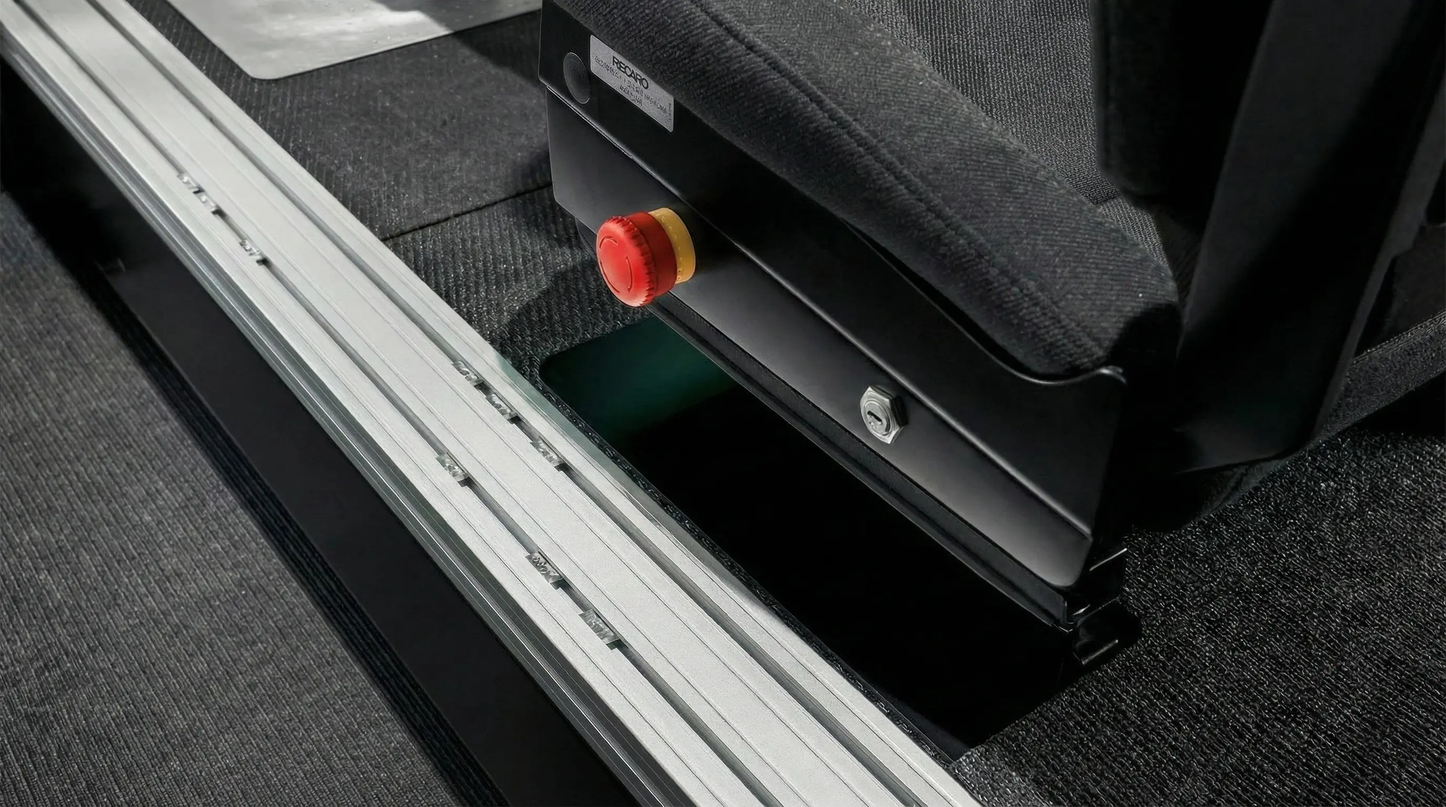
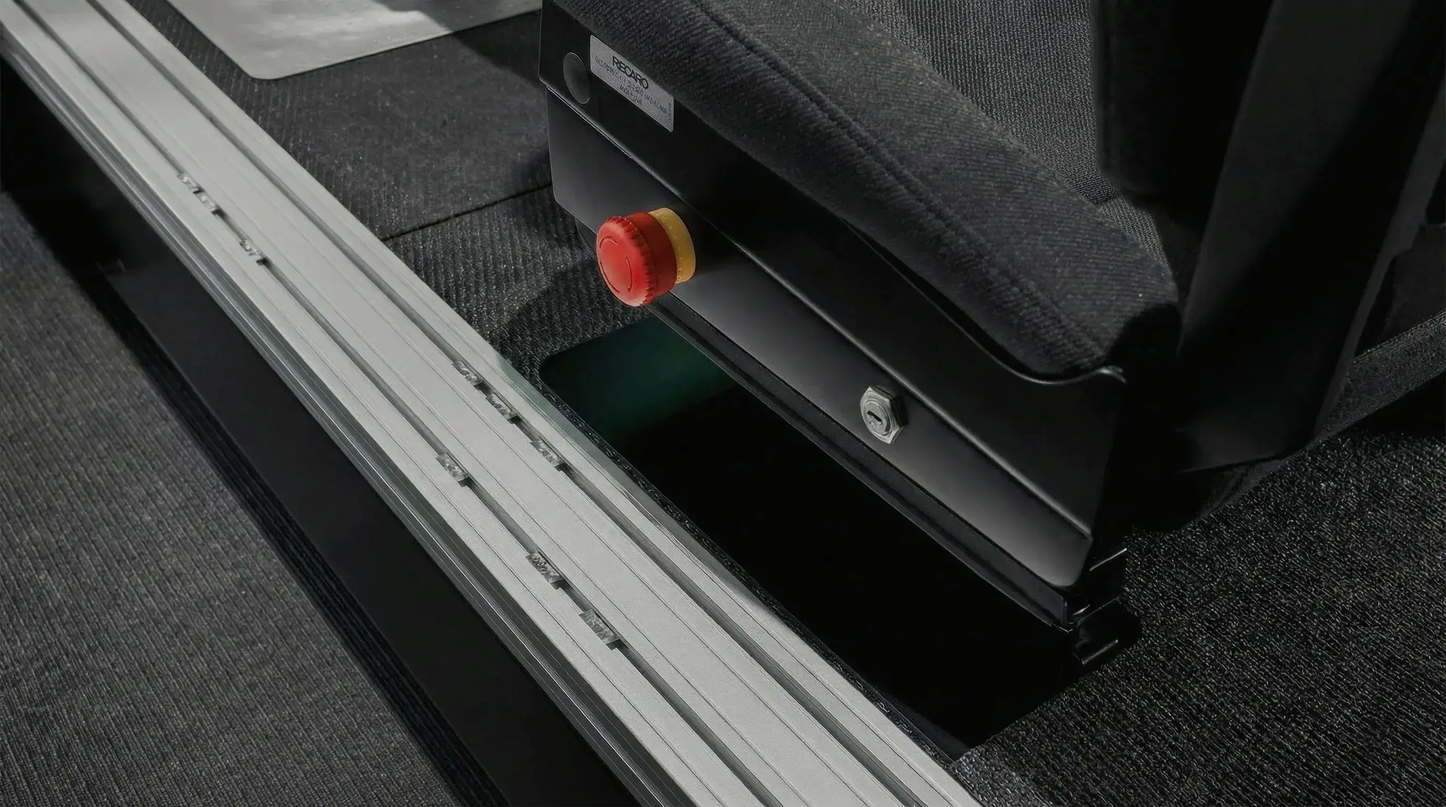
added shader reveal transition to the techfeatures

diff --git a/Final/src/scenes/TechFeatures/TechFeaturesCanvas.jsx b/Final/src/scenes/TechFeatures/TechFeaturesCanvas.jsx
@@ -1,0 +1,125 @@
+import { Canvas, useFrame, useThree } from '@react-three/fiber';
+import { useTexture, shaderMaterial } from '@react-three/drei';
+import * as THREE from 'three';
+import React, { useRef, useMemo, useState, useEffect } from 'react';
+import vertexShader from './shader/vertex.glsl?raw';
+import fragmentShader from './shader/fragment.glsl?raw';
+import features from './techFeatures.json';
+import gsap from 'gsap';
+
+const ImageTransitionMaterial = shaderMaterial(
+    {
+        uTexture: new THREE.Texture(),
+        uProgress: 0,
+        uSize: new THREE.Vector2(1, 1),
+        uResolution: new THREE.Vector2(1, 1),
+        uImageResolution: new THREE.Vector2(1, 1),
+    },
+    vertexShader,
+    fragmentShader
+);
+
+import { extend } from '@react-three/fiber';
+extend({ ImageTransitionMaterial });
+
+const TransitionPlane = ({ texture, isVisible, isActive, isBackground }) => {
+    const materialRef = useRef();
+    const meshRef = useRef();
+    const { viewport, size } = useThree();
+
+    useFrame(() => {
+        if (materialRef.current) {
+            materialRef.current.uSize = new THREE.Vector2(viewport.width, viewport.height);
+            materialRef.current.uResolution = new THREE.Vector2(viewport.width, viewport.height);
+        }
+    });
+
+    useEffect(() => {
+        if (materialRef.current && texture) {
+            materialRef.current.uTexture = texture;
+            if (texture.image) {
+                materialRef.current.uImageResolution = new THREE.Vector2(
+                    texture.image.width,
+                    texture.image.height
+                );
+            }
+        }
+    }, [texture]);
+
+    useEffect(() => {
+        if (materialRef.current) {
+            if (isBackground) {
+                materialRef.current.uProgress = 1.5;
+            } else if (isActive) {
+                materialRef.current.uProgress = 0;
+                gsap.to(materialRef.current, {
+                    uProgress: 1.5,
+                    duration: 1.5,
+                    ease: "power2.inOut",
+                });
+            }
+        }
+    }, [isActive, isBackground]);
+
+    return (
+        <mesh ref={meshRef} scale={[viewport.width, viewport.height, 1]}>
+            <planeGeometry args={[1, 1, 32, 32]} />
+            <imageTransitionMaterial
+                ref={materialRef}
+                transparent={true}
+            />
+        </mesh>
+    );
+};
+
+const Scene = ({ selectedFeatureIndex }) => {
+    const textures = useTexture(features.map(f => f.image));
+    const { viewport } = useThree();
+
+    const [displayState, setDisplayState] = useState({
+        prev: 0,
+        current: selectedFeatureIndex,
+        key: 0
+    });
+
+    useEffect(() => {
+        if (selectedFeatureIndex !== displayState.current) {
+            setDisplayState(prevState => ({
+                prev: prevState.current,
+                current: selectedFeatureIndex,
+                key: prevState.key + 1
+            }));
+        }
+    }, [selectedFeatureIndex]);
+
+    return (
+        <>
+            <TransitionPlane
+                texture={textures[displayState.prev]}
+                isActive={false}
+                isBackground={true}
+            />
+
+            <TransitionPlane
+                key={displayState.key}
+                texture={textures[displayState.current]}
+                isActive={true}
+            />
+        </>
+    );
+};
+
+const TechFeaturesCanvas = ({ selectedFeature }) => {
+    return (
+        <div style={{ width: '100%', height: '100%' }}>
+            <Canvas
+                camera={{ position: [0, 0, 1] }}
+                dpr={[1, 2]}
+            >
+                <Scene selectedFeatureIndex={selectedFeature.index} />
+            </Canvas>
+        </div>
+    );
+};
+
+export default TechFeaturesCanvas;

diff --git a/Final/src/scenes/TechFeatures/index.jsx b/Final/src/scenes/TechFeatures/index.jsx
@@ -5,6 +5,7 @@ import VariableText from '../../Components/VariableText'
 import features from "./techFeatures.json";
 import FeatureNavigation from "./FeatureNavigation";
 import FeatureInfo from "./FeatureInfo";
+import TechFeaturesCanvas from "./TechFeaturesCanvas";
 
 import gsap from "gsap";
 import { ScrollTrigger } from "gsap/ScrollTrigger";
@@ -40,14 +41,7 @@ const TechFeatures = () => {
         <div ref={wrapperRef} className="feature_container--wrapper">
             <div ref={containerRef} className="feature_container">
                 <div className="feature_background">
-                    {features.map((feature, index) => (
-                        <img 
-                            key={index}
-                            src={feature.image}
-                            alt={feature.name}
-                            className={selectedFeature.index === index ? 'active' : ''}
-                        />
-                    ))}
+                    <TechFeaturesCanvas selectedFeature={selectedFeature} />
                 </div>
                 <h2 className="visibility-hidden">Tech Features</h2>
                 <div style={{ pointerEvents: 'none', position: 'relative', zIndex: 1 }}>

diff --git a/Final/src/scenes/TechFeatures/tech.css b/Final/src/scenes/TechFeatures/tech.css
@@ -91,7 +91,7 @@
 }
 
 .feature_button.active {
-    color: var(--meteor-shower);
+    color: var(--doctor);
 }
 
 .feature_button:hover {
